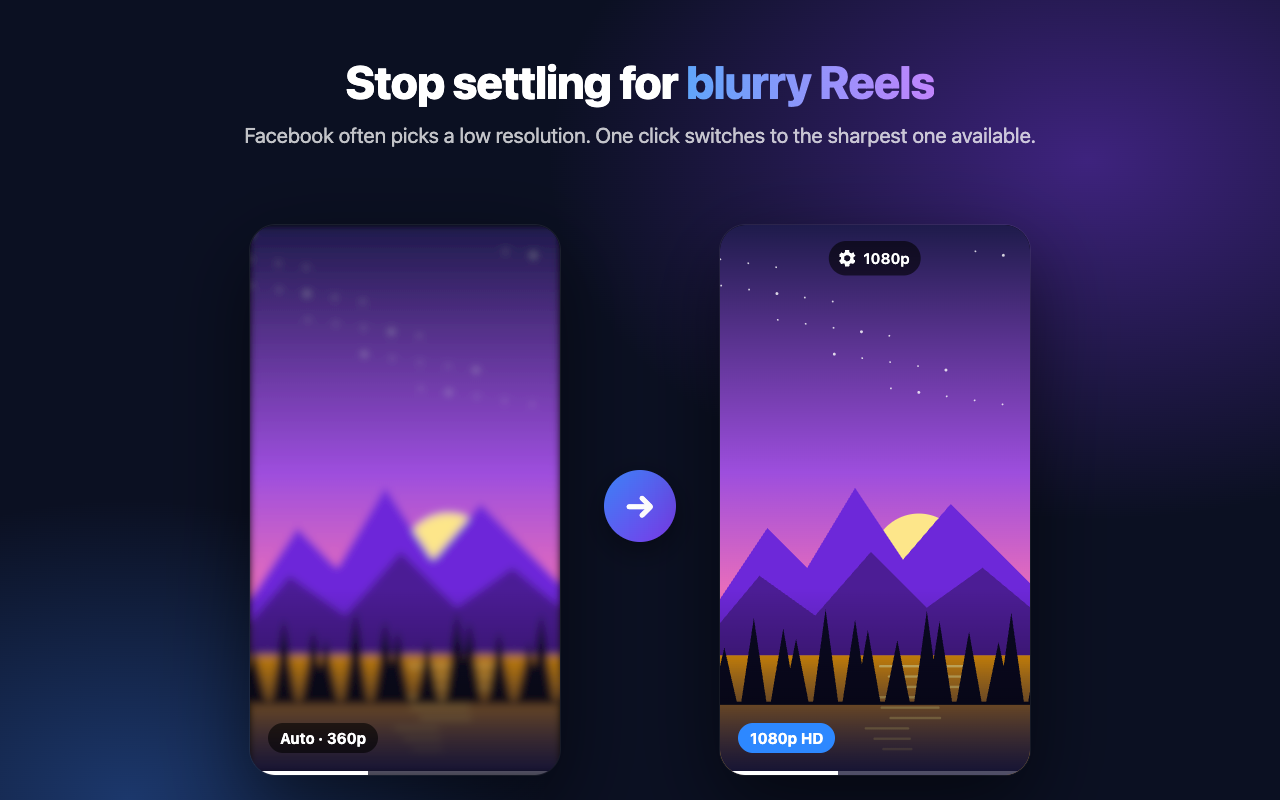
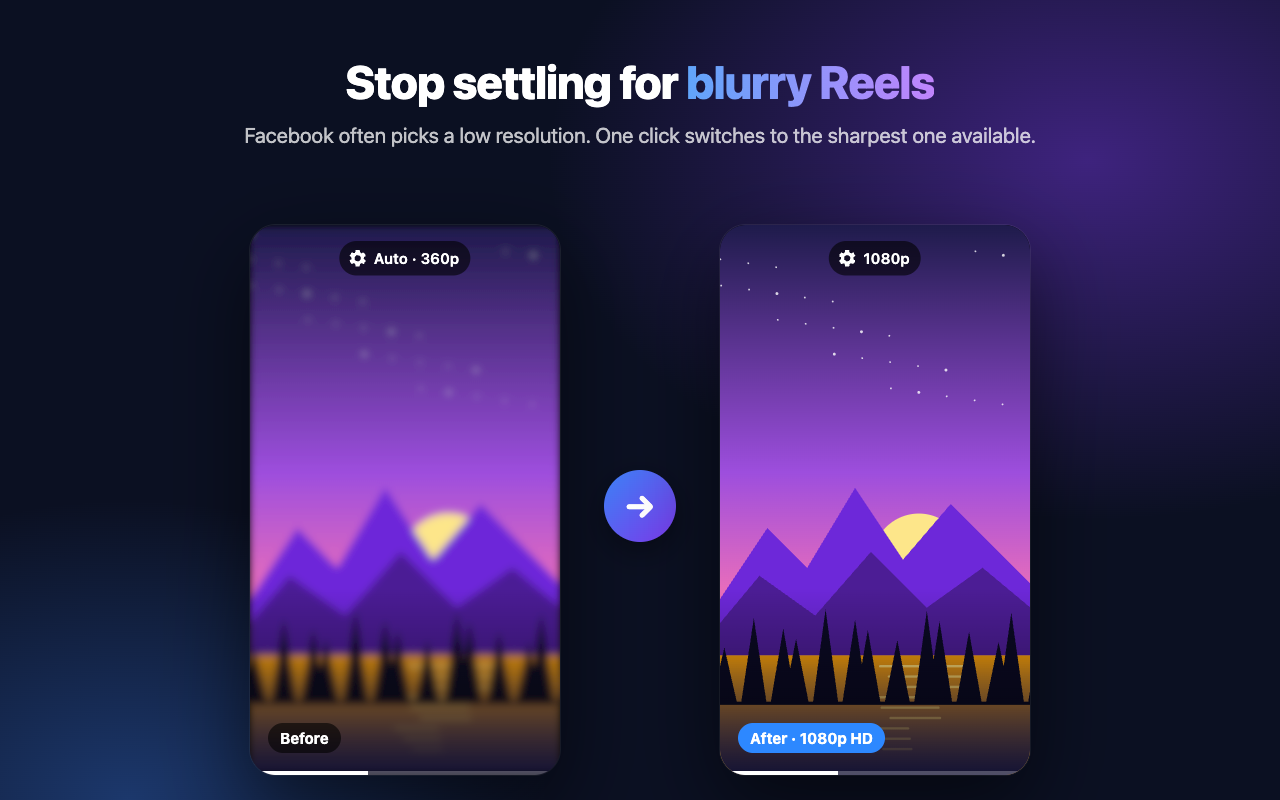
Store images: show the 1.2 UI (real resolution on the button, auto-hide toggle, shortcuts)

Changed region(s): [[0.25, 0.2812, 0.375, 0.3438], [0.5938, 0.9062, 0.6875, 0.9688], [0.2188, 0.9062, 0.3125, 0.9375]]

diff --git a/store/mockups.html b/store/mockups.html
@@ -89,6 +89,7 @@
       <li><b>✓</b>Lists only the qualities each reel really has</li>
       <li><b>✓</b>Remembers your choice for the next reels</li>
       <li><b>✓</b>Drag the button anywhere on the video</li>
+      <li><b>✓</b>Shows the real resolution, with keyboard shortcuts</li>
       <li><b>✓</b>No data collected, no extra permissions</li>
     </ul>
   </div>
@@ -110,6 +111,8 @@
         <div class="title">Button position</div>
         <div class="grid"><i class="cell"></i><i class="cell active"></i><i class="cell"></i><i class="cell"></i><i class="cell empty"></i><i class="cell"></i><i class="cell"></i><i class="cell"></i><i class="cell"></i></div>
         <div class="hint">Or drag the button</div>
+        <div class="item"><span class="check">✓</span>Hide button until the mouse moves</div>
+        <div class="hint">Keys: Q menu · Shift+↑/↓ quality · A auto · E expand</div>
         <div class="sep"></div>
         <div class="footer"><span class="credit">Reel Quality · by Louis</span><span class="support">☕ Support</span></div>
       </div>
@@ -124,13 +127,14 @@
     <p class="lead">Facebook often picks a low resolution. One click switches to the sharpest one available.</p>
   </div>
   <div class="reel" data-scene="blur" style="left:250px; top:225px; width:310px; height:550px">
-    <div class="tag">Auto · 360p</div>
+    <div class="tag">Before</div>
+    <div class="ext" style="left:50%; top:16px; transform: translateX(-50%) scale(1.15)"><div class="btn" data-gear>Auto · 360p</div></div>
     <div class="shade"></div><div class="progress"><i></i></div>
   </div>
   <div style="position:absolute; left:604px; top:470px; width:72px; height:72px; border-radius:50%; display:grid; place-items:center;
     background:linear-gradient(135deg,#3b82f6,#7c3aed); font-size:34px; font-weight:800; box-shadow:0 10px 30px rgba(0,0,0,.4)">→</div>
   <div class="reel" data-scene style="left:720px; top:225px; width:310px; height:550px">
-    <div class="tag" style="background:#2d88ff">1080p HD</div>
+    <div class="tag" style="background:#2d88ff">After · 1080p HD</div>
     <div class="shade"></div><div class="progress"><i></i></div>
     <div class="ext" style="left:50%; top:16px; transform: translateX(-50%) scale(1.15)"><div class="btn" data-gear>1080p</div></div>
   </div>
@@ -148,7 +152,7 @@
     <div class="caption" style="top:466px; font-size:14px">Wait for the ending 😲</div>
     <div class="progress" style="position:absolute; left:0; right:0; bottom:0; height:4px; background:rgba(255,255,255,.25)"><i style="display:block; height:100%; width:30%; background:#fff"></i></div>
     <div class="ext" style="left:50%; top:14px; transform: translateX(-50%)">
-      <div class="btn" data-gear>Auto</div>
+      <div class="btn" data-gear>Auto · 540p</div>
       <div class="menu" style="min-width:214px">
         <div class="title">Quality</div>
         <div class="item"><span class="check">✓</span>Auto<span class="sub">540p</span></div>
